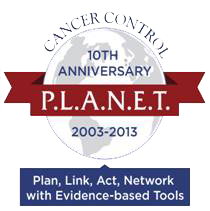
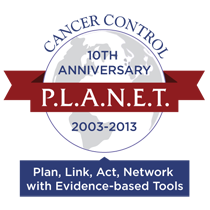
Updated badge images with newer images, adjusted sizing and corrected embed link.
git-svn-id: http://svn.nci.nih.gov/svn/planet3/trunk@2168 41d1f371-2c4a-214d-948b-9ca61c02e737

Changed region(s): [[0.0, 0.0571, 1.0, 1.0]]

diff --git a/wwwroot/badges.html b/wwwroot/badges.html
@@ -47,12 +47,12 @@
             <table width="1000" border="0" cellspacing="0" cellpadding="10">
               
               <tr>
-                <td width="240" height="220" valign="top"><a href="http://ccplanet.cancer.gov"><img src="images/badges/10thAnniversaryPlanet.png" width="210" height="211" border="0" alt="Celebrate 10 Years with Cancer Control P.L.A.N.E.T"></a></td>
+                <td width="240" height="220" valign="top"><a href="http://ccplanet.cancer.gov"><img src="images/badges/10thAnniversaryPlanet.png" width="210" height="210" border="0" alt="Celebrate 10 Years with Cancer Control P.L.A.N.E.T"></a></td>
                 <td width="801" valign="middle"><label for="WebButton3"><textarea name="WebButton3" cols="50" rows="5" readonly="readonly" id="WebButton3" onClick="this.focus();this.select()"><a href="http://ccplanet.cancer.gov"><img src="http://ccplanet.cancer.gov/images/badges/10thAnniversaryPlanet.png" width="210" height="211" border="0" alt="Celebrate 10 Years with Cancer Control P.L.A.N.E.T"></a></textarea></label><br></td>
               </tr>
               <tr>
-                <td valign="top" height="220" ><a href="http://rtips.cancer.gov/rtips/index.do"><img src="images/badges/10thAnniversary.png" width="160" height="211" border="0" alt="Celebrate 10 Years with RTIPs"></a></td>
-                <td valign="middle"><label for="WebButton4"><textarea name="WebButton4" cols="50" rows="5" readonly="readonly" id="WebButton4" onClick="this.focus();this.select()"><a href="http://rtips.cancer.gov/rtips/index.do"><img src="http://ccplanet.cancer.gov/images/badges/10thAnniversaryPlanet.png" width="160" height="211" border="0" alt="Celebrate 10 Years with RTIPs"></a></textarea></label></td>
+                <td valign="top" height="220" ><a href="http://rtips.cancer.gov/rtips/index.do"><img src="images/badges/10thAnniversary.png" width="210" height="210" border="0" alt="Celebrate 10 Years with RTIPs"></a></td>
+                <td valign="middle"><label for="WebButton4"><textarea name="WebButton4" cols="50" rows="5" readonly="readonly" id="WebButton4" onClick="this.focus();this.select()"><a href="http://rtips.cancer.gov/rtips/index.do"><img src="http://ccplanet.cancer.gov/images/badges/10thAnniversary.png" width="160" height="211" border="0" alt="Celebrate 10 Years with RTIPs"></a></textarea></label></td>
               </tr>
             </table>
 

diff --git a/wwwroot/index.html b/wwwroot/index.html
@@ -164,8 +164,8 @@
                     <p class="boxTitle">
                         WHAT'S NEW</p>
                         <p><strong><a href="https://researchtoreality.cancer.gov/node/1197">Celebrate 10 Years with Cancer Control P.L.A.N.E.T. and RTIPs!</a></strong></p>
-                    <p><a href="badges.html"><img src="images/badges/10thAnniversaryPlanet.png" alt="10th Anniversary" /></a>
-                    <a href="badges.html"><img src="images/badges/10thAnniversary.png" alt="10th Anniversary" /></a>
+                    <p><a href="badges.html"><img src="images/badges/10thAnniversaryPlanet.png" alt="10th Anniversary" width="195" height="195"/></a>
+                    <a href="badges.html"><img src="images/badges/10thAnniversary.png" alt="10th Anniversary" width="195" height="195"/></a>
                     </p>
                     <p><a href="badges.html">Download these badges for your web site</a></p>
                     
